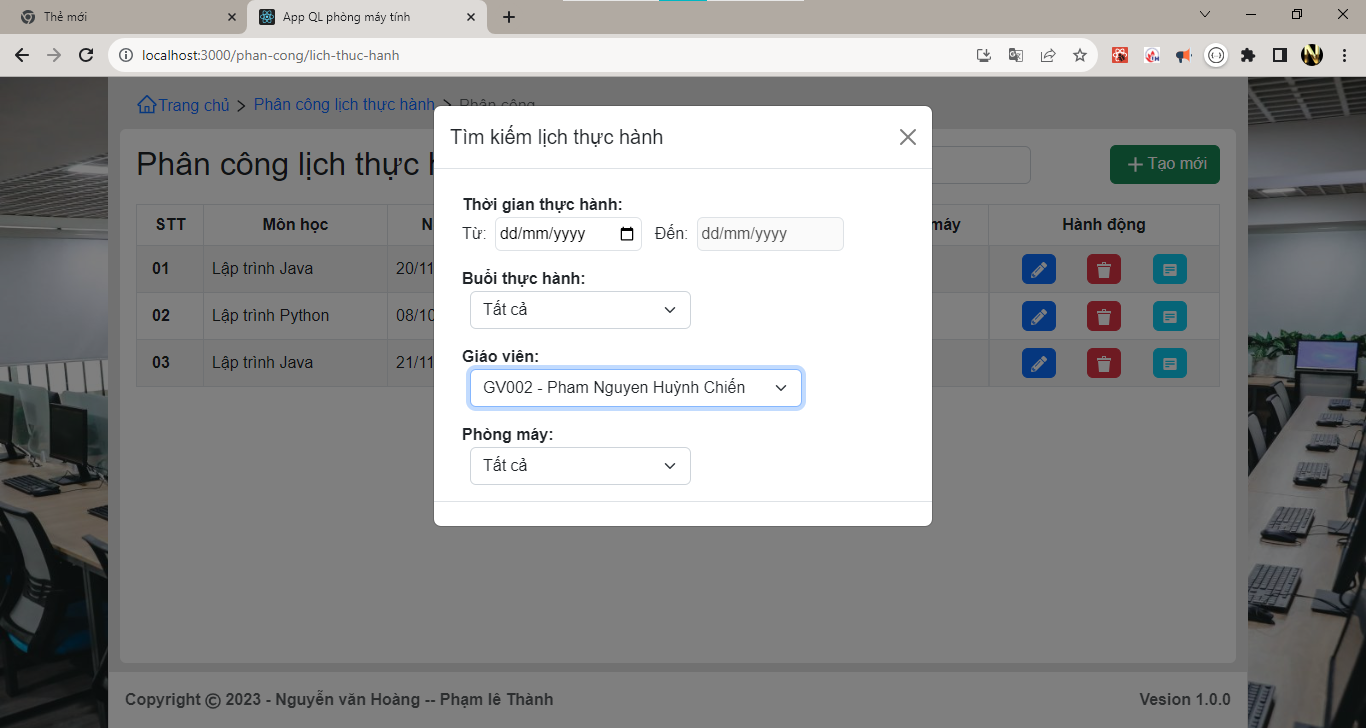
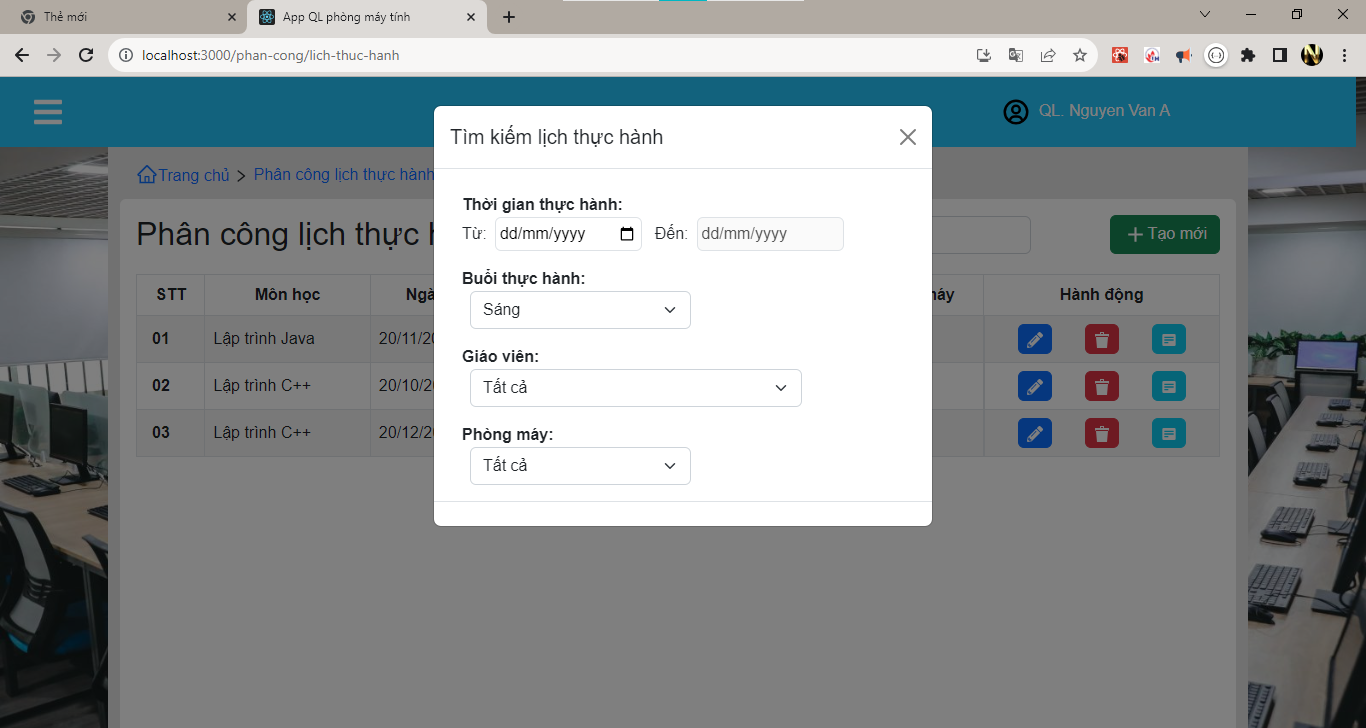
QLLichTh: finish search BuoiTH

diff --git a/src/redux/reducers/lichThucHanhReducer.jsx b/src/redux/reducers/lichThucHanhReducer.jsx
@@ -11,6 +11,7 @@ const fun_Search = (objData) => {
     valueDateFrom,
     valueDateTo,
     valueSelGiaoVien,
+    valueSelBuoiTH,
   } = objData;
 
   return dataSearch(
@@ -18,7 +19,8 @@ const fun_Search = (objData) => {
     valueSearch,
     valueDateFrom,
     valueDateTo,
-    valueSelGiaoVien
+    valueSelGiaoVien,
+    valueSelBuoiTH,
   );
 };
 const dataSearch = (
@@ -26,7 +28,8 @@ const dataSearch = (
   valSearch,
   valDateFrom,
   valDateTo,
-  valSelGiaoVien
+  valSelGiaoVien,
+  valSelBuoiTH,
 ) => {
   //
   let search = valSearch.toLowerCase();
@@ -69,6 +72,12 @@ const dataSearch = (
       return item.giaoVien.maGiaoVien.includes(valSelGiaoVien);
     });
   }
+  if(valSelBuoiTH != -1) {
+    let searchBuoiTH = valSelBuoiTH.toLowerCase();
+    arrUpdate = arrUpdate.filter((item) => {
+      return item.tenCa.toLowerCase().includes(searchBuoiTH)
+    });
+  }
 
   //
   return [...arrUpdate];
@@ -82,6 +91,7 @@ const initialState = {
   valueDateFrom: "",
   valueDateTo: "",
   valueSelGiaoVien: -1,
+  valueSelBuoiTH: -1,
 };
 
 const lichThucHanhReducer = createSlice({
@@ -117,6 +127,11 @@ const lichThucHanhReducer = createSlice({
       //
       state.arrCaThucHanhSearch = fun_Search(state);
     },
+    setvalueSelBuoiTHCaTHAction: (state, action) => {
+      state.valueSelBuoiTH = action.payload;
+      //
+      state.arrCaThucHanhSearch = fun_Search(state);
+    },
   },
 });
 // exp nay de sử dụng theo cách 2
@@ -127,6 +142,7 @@ export const {
   setValueSelDateFromCaTHAction,
   setValueSelDateToCaTHAction,
   setValueSelGiaoVienCaTHAction,
+  setvalueSelBuoiTHCaTHAction,
 } = lichThucHanhReducer.actions;
 export default lichThucHanhReducer.reducer;
 

diff --git a/src/components/layout/Modal/ModalSearchLichThucHanh.jsx b/src/components/layout/Modal/ModalSearchLichThucHanh.jsx
@@ -4,6 +4,7 @@ import {
   setValueSelDateFromCaTHAction,
   setValueSelDateToCaTHAction,
   setValueSelGiaoVienCaTHAction,
+  setvalueSelBuoiTHCaTHAction,
 } from "../../../redux/reducers/lichThucHanhReducer";
 import { getAllGiaoVienApi } from "../../../redux/reducers/giaoVienReducer";
 
@@ -32,6 +33,10 @@ export default function ModalSearchLichThucHanh() {
   }, []);
 
   // handle
+  //
+  const handleChangeSelBuoiTH = (e) => {
+    dispatch(setvalueSelBuoiTHCaTHAction(e.target.value))
+  }
   // 
   const handleChangeSelGiaoVien = (e) => {
     dispatch(setValueSelGiaoVienCaTHAction(e.target.value))
@@ -100,7 +105,7 @@ export default function ModalSearchLichThucHanh() {
                 {/* Buổi thực hành */}
                 <div className="col-6">
                   <strong>Buổi thực hành: </strong>
-                  <select className="form-select  ms-2">
+                  <select onChange={handleChangeSelBuoiTH} className="form-select  ms-2">
                     <option value={-1}>Tất cả</option>
                     <option value="sáng">Sáng</option>
                     <option value="chiều">Chiều</option>
